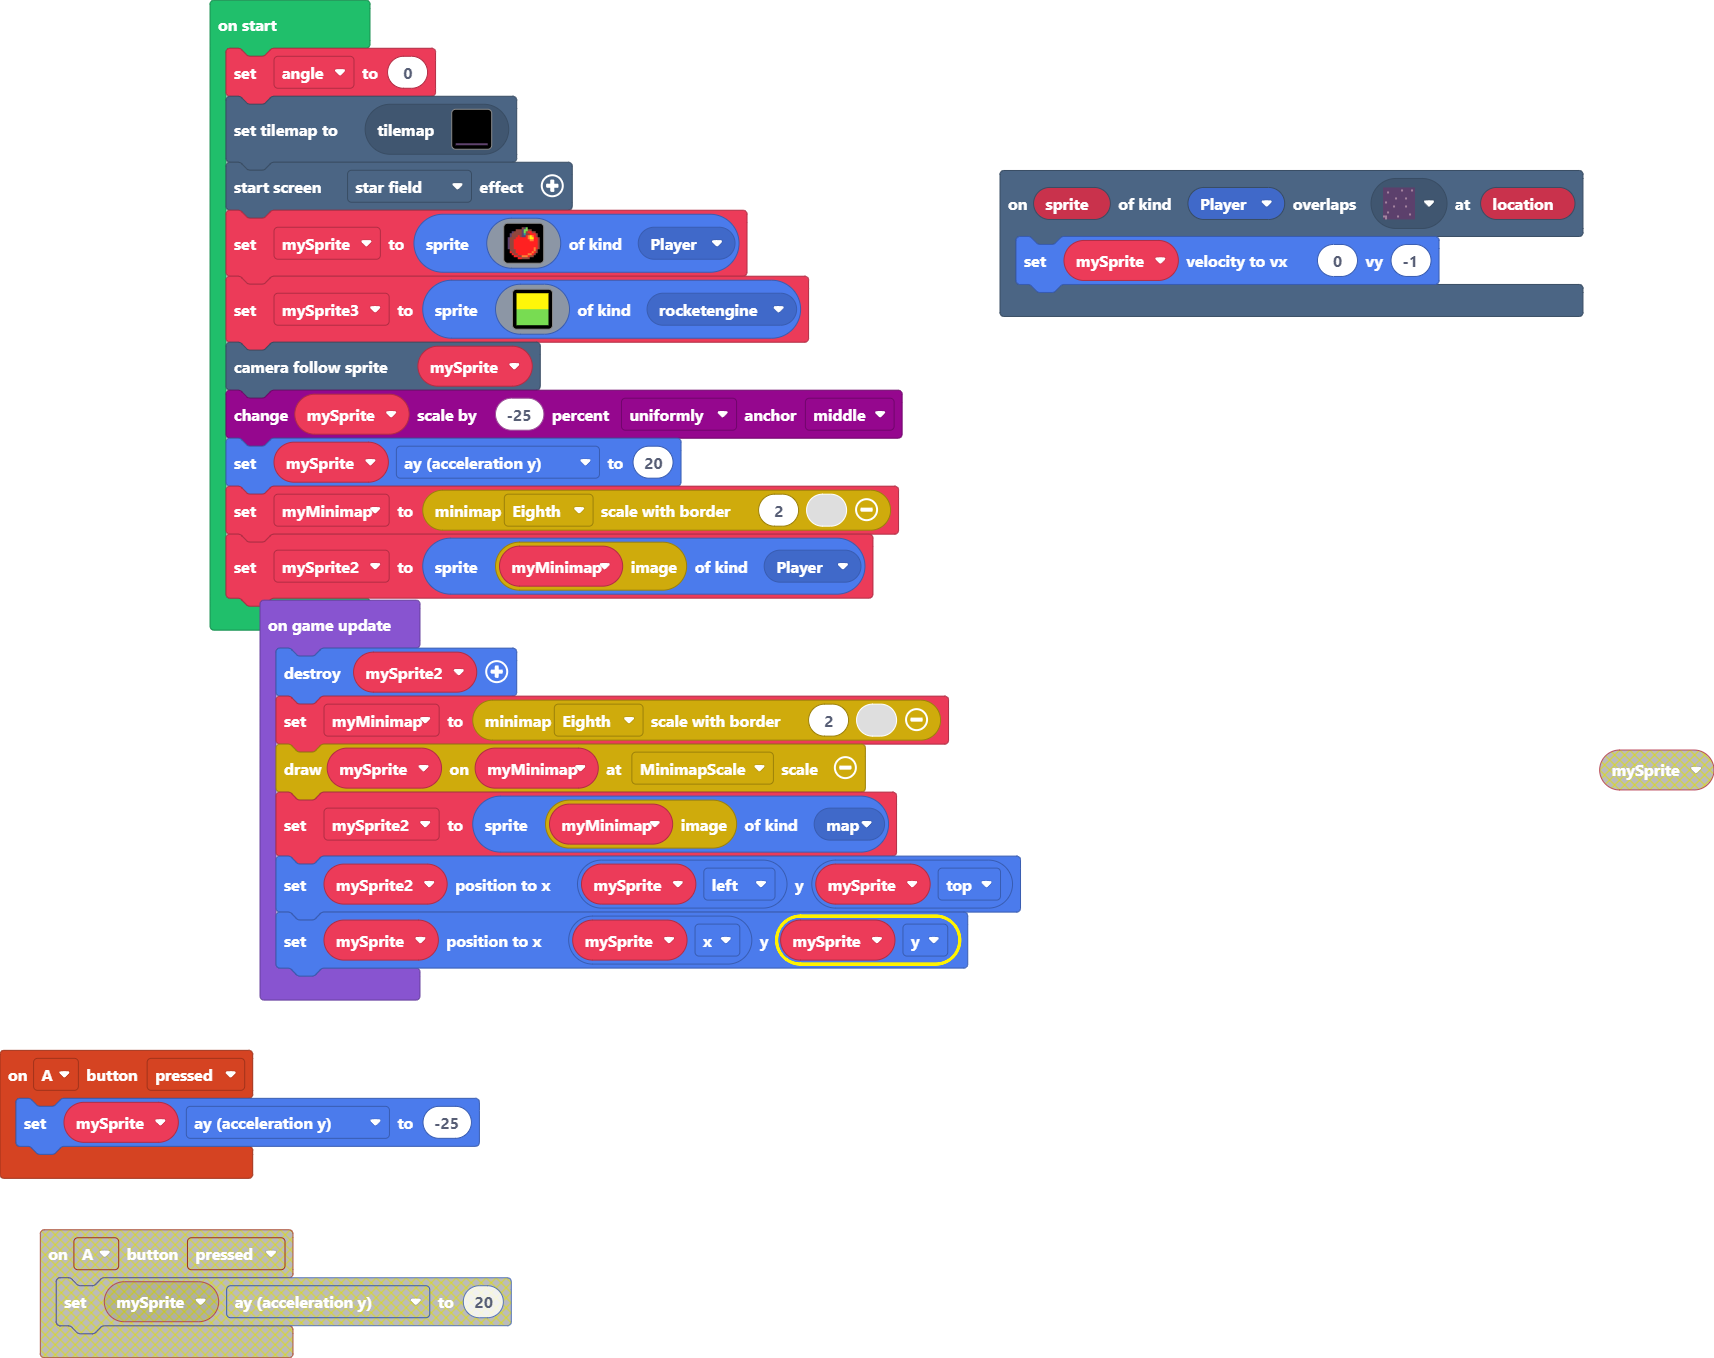
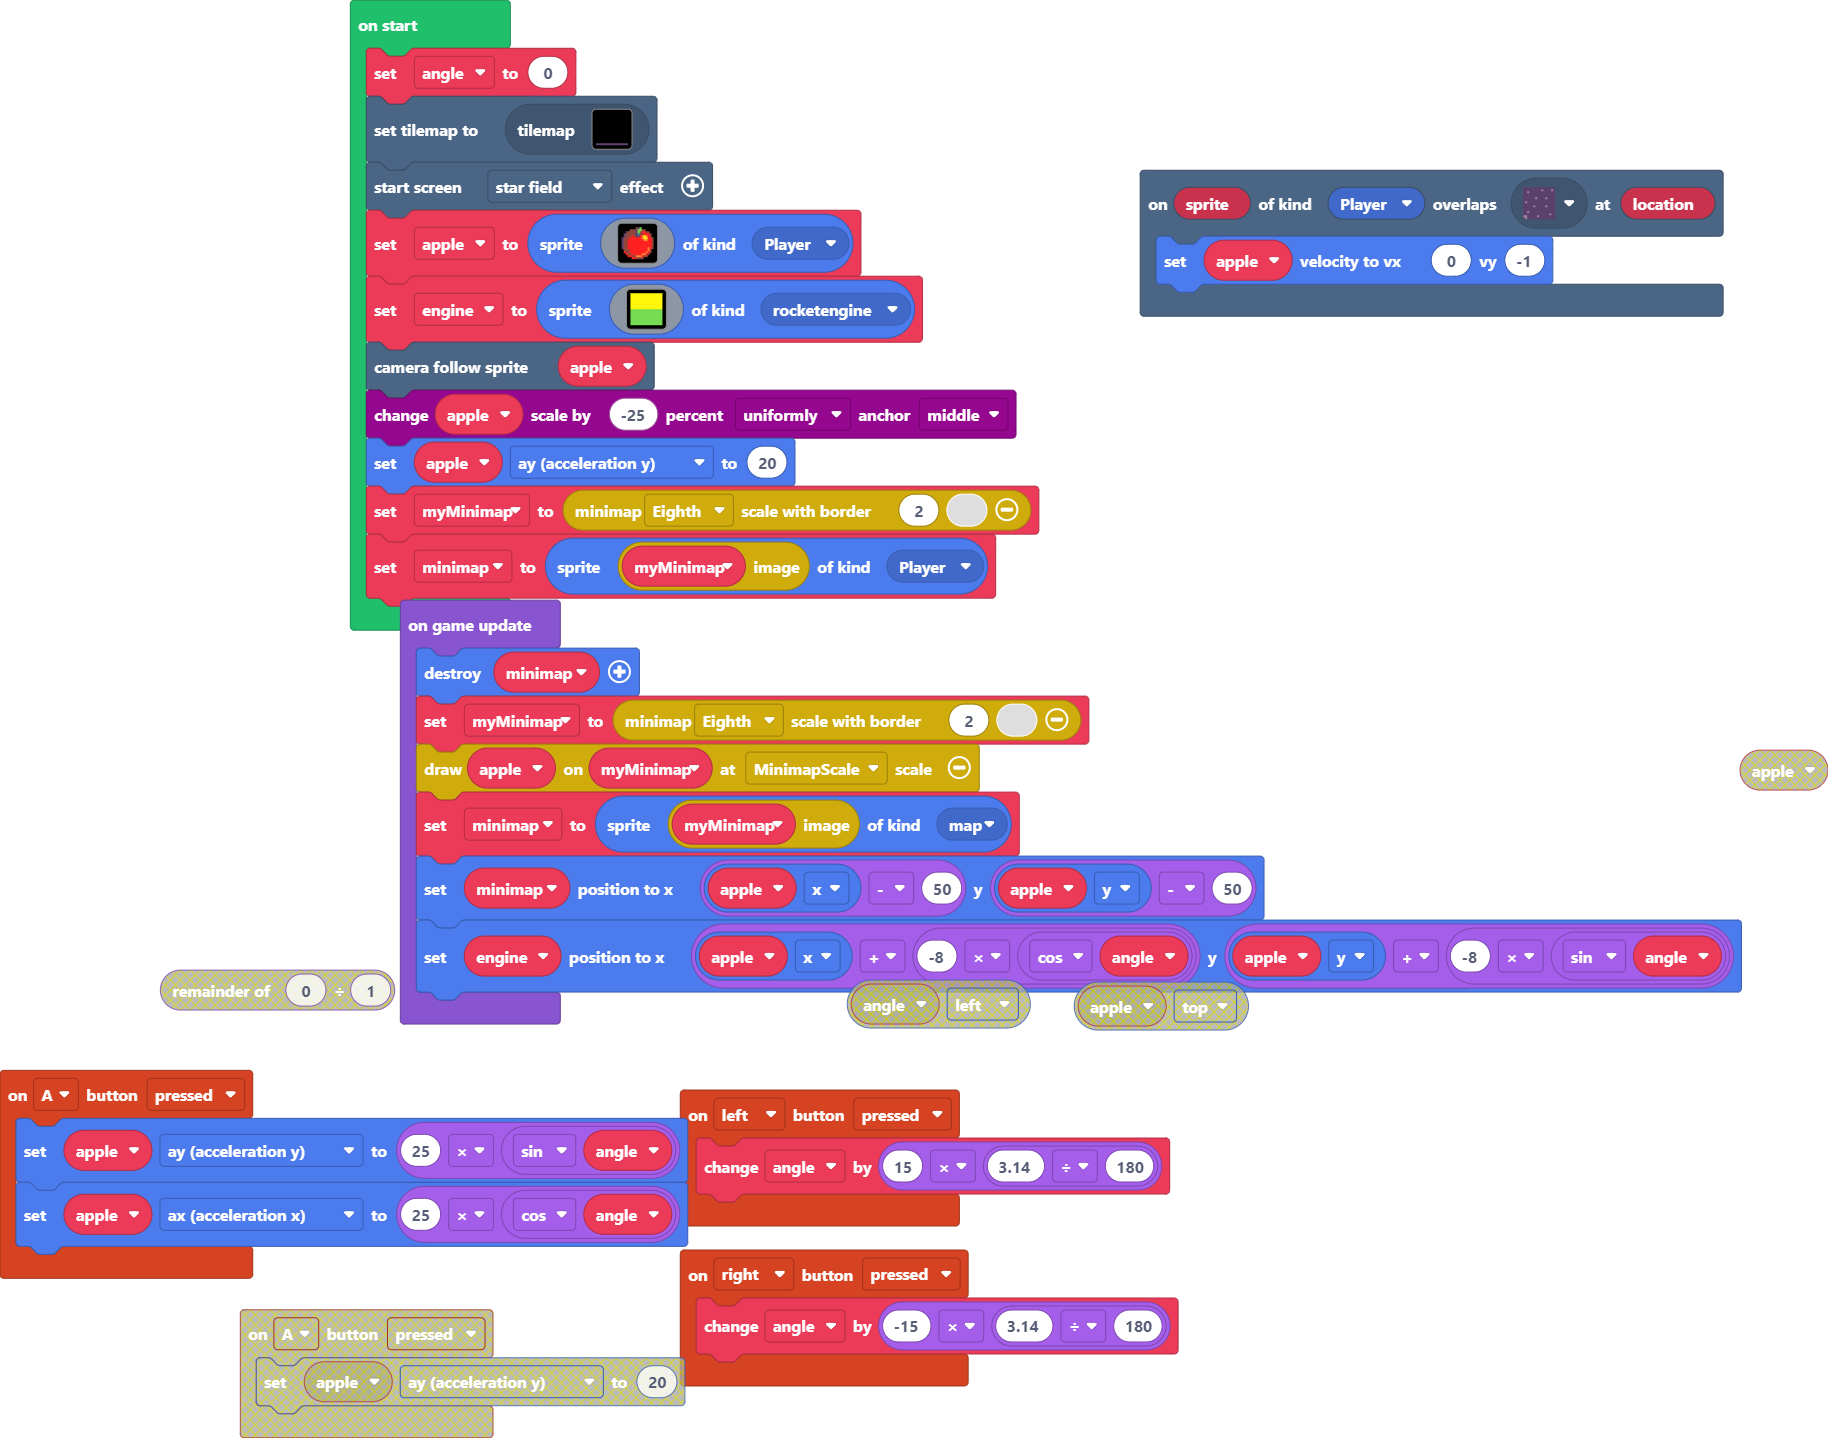
movement works

diff --git a/main.ts b/main.ts
@@ -3,16 +3,24 @@ namespace SpriteKind {
     export const rocketengine = SpriteKind.create()
 }
 scene.onOverlapTile(SpriteKind.Player, sprites.dungeon.darkGroundNorthEast1, function (sprite, location) {
-    mySprite.setVelocity(0, -1)
+    apple.setVelocity(0, -1)
 })
 controller.A.onEvent(ControllerButtonEvent.Pressed, function () {
-    mySprite.ay = -25
+    apple.ay = 25 * Math.sin(angle)
+    apple.ax = 25 * Math.cos(angle)
 })
-let mySprite: Sprite = null
+controller.left.onEvent(ControllerButtonEvent.Pressed, function () {
+    angle += 15 * (3.14 / 180)
+})
+controller.right.onEvent(ControllerButtonEvent.Pressed, function () {
+    angle += -15 * (3.14 / 180)
+})
+let apple: Sprite = null
 let angle = 0
+angle = 0
 tiles.setCurrentTilemap(tilemap`level1`)
 effects.starField.startScreenEffect()
-mySprite = sprites.create(img`
+apple = sprites.create(img`
     . . . . . . . e c 7 . . . . . . 
     . . . . e e e c 7 7 e e . . . . 
     . . c e e e e c 7 e 2 2 e e . . 
@@ -30,20 +38,20 @@ mySprite = sprites.create(img`
     . . . 2 2 e e 4 4 4 2 e e . . . 
     . . . . . 2 2 e e e e . . . . . 
     `, SpriteKind.Player)
-let mySprite3 = sprites.create(img`
+let engine = sprites.create(img`
     5 5 
     7 7 
     `, SpriteKind.rocketengine)
-scene.cameraFollowSprite(mySprite)
-scaling.scaleByPercent(mySprite, -25, ScaleDirection.Uniformly, ScaleAnchor.Middle)
-mySprite.ay = 20
+scene.cameraFollowSprite(apple)
+scaling.scaleByPercent(apple, -25, ScaleDirection.Uniformly, ScaleAnchor.Middle)
+apple.ay = 20
 let myMinimap = minimap.minimap(MinimapScale.Eighth, 2, 0)
-let mySprite2 = sprites.create(minimap.getImage(myMinimap), SpriteKind.Player)
+let minimap2 = sprites.create(minimap.getImage(myMinimap), SpriteKind.Player)
 game.onUpdate(function () {
-    mySprite2.destroy()
+    minimap2.destroy()
     myMinimap = minimap.minimap(MinimapScale.Eighth, 2, 0)
-    minimap.includeSprite(myMinimap, mySprite, MinimapSpriteScale.MinimapScale)
-    mySprite2 = sprites.create(minimap.getImage(myMinimap), SpriteKind.map)
-    mySprite2.setPosition(mySprite.left, mySprite.top)
-    mySprite.setPosition(mySprite.x, mySprite.y)
+    minimap.includeSprite(myMinimap, apple, MinimapSpriteScale.MinimapScale)
+    minimap2 = sprites.create(minimap.getImage(myMinimap), SpriteKind.map)
+    minimap2.setPosition(apple.x - 50, apple.y - 50)
+    engine.setPosition(apple.x + -8 * Math.cos(angle), apple.y + -8 * Math.sin(angle))
 })
